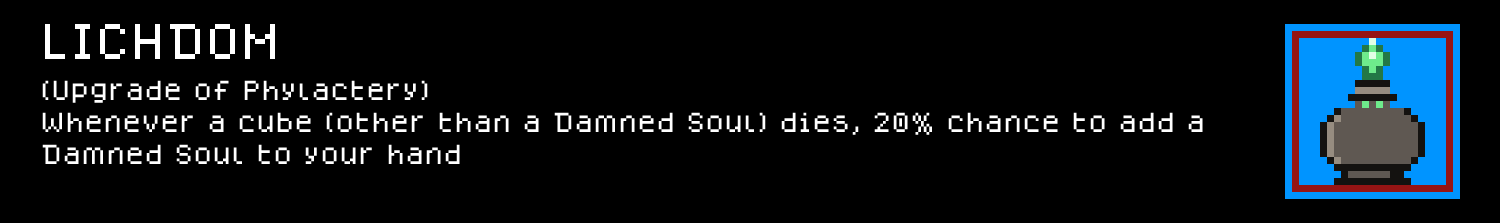
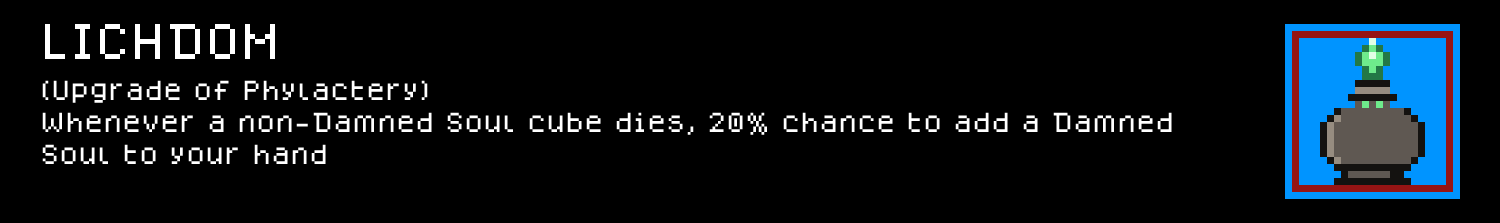
also small fixes

Changed region(s): [[0.1533, 0.4843, 0.828, 0.5919], [0.0307, 0.6457, 0.3067, 0.7534]]

diff --git a/.claude/skills/cube-chaos-rule-text/SKILL.md b/.claude/skills/cube-chaos-rule-text/SKILL.md
@@ -101,9 +101,13 @@ Pick the header color from the base game's existing vocabulary rather than inven
 - **Never put a period before the closing `End`.** Checked ~3070 real `Text:`/`Description:` lines: only 1 has a period before `End`. End the sentence and put `End` directly after — e.g. `Text: Heals the cube in front for 2 hp End`.
 - **Always capitalize the first letter.** 2965/2968 real lines do (the handful of exceptions are noise, not a real pattern).
 
-## Phrasing an `IsALeader`/`Not IsALeader` filter: "non-leader", never a parenthetical
+## Phrasing a "not X" filter: "non-X", never a parenthetical
 
-When a condition filters on `Not IsALeader Victim`/`Not IsALeader Culprit`/`Not IsALeader Target` etc., phrase it as **"a non-leader ally"** (or "non-leader enemy"/"non-leader cube", matching whatever noun the sentence needs) — fold the exclusion into the noun phrase, don't bolt it on as a parenthetical. Confirmed the established convention across both mods that use this filter: General's `General_Perks.c.txt`/`General_UpgradePerks.c.txt` ("a non leader ally", "a non leader ally deals damage") and DJ's `DJ_Cubes.c.txt`/`DJ_Synergies.c.txt`/`DJ_UpgradePerks.c.txt` ("non-leader cubes", "non-leader allies", "non leader enemies") all use this noun-phrase form — none use a parenthetical. Unholy's `Blood_Totem` originally read "Before an ally (not your leader) collides with this..." and was corrected to "Before a non-leader ally collides with this..." (2026-07-25, user-flagged) to match. Hyphenate ("non-leader") by default — DJ's cube/synergy text hyphenates while its two older upgrade-perk lines don't, so hyphenated is the slightly more common and more standard-English form; either reads fine in-game, but don't introduce a third phrasing (a parenthetical, "excluding the leader", etc.).
+When a condition excludes one specific thing — `Not IsALeader Victim/Culprit/Target`, or `Not CubeHasName Victim <SomeCube>` — phrase it as **"a non-X ally/cube/enemy"**, folding the exclusion into the noun phrase, never as a bolted-on parenthetical like "(not your leader)" or "(other than a Damned Soul)". Confirmed twice independently, same fix both times (2026-07-25, both user-flagged):
+- **`Not IsALeader`**: General's `General_Perks.c.txt`/`General_UpgradePerks.c.txt` ("a non leader ally") and DJ's `DJ_Cubes.c.txt`/`DJ_Synergies.c.txt`/`DJ_UpgradePerks.c.txt` ("non-leader cubes", "non-leader allies") already used this noun-phrase form. Unholy's `Blood_Totem` read "Before an ally (not your leader) collides with this..." and was corrected to "Before a non-leader ally collides with this...".
+- **`Not CubeHasName Victim Damned_Soul`**: Unholy's `Phylactery` ("Whenever an allied cube (other than a Damned Soul) dies...") and its upgrade `Lichdom` ("Whenever a cube (other than a Damned Soul) dies...") were both corrected to "a non-Damned Soul ally"/"a non-Damned Soul cube" respectively — keep the excluded cube's display name spaced as normal ("Damned Soul", not the DSL's underscored `Damned_Soul`) since the rest of the sentence already refers to it that way ("...add a Damned Soul to your hand").
+
+Hyphenate ("non-leader", "non-Damned Soul") by default — DJ's cube/synergy text hyphenates while its two older upgrade-perk lines don't, so hyphenated is the slightly more common and more standard-English form; either reads fine in-game, but don't introduce a third phrasing (a parenthetical, "excluding the leader", "that isn't a Damned Soul", etc.). This generalizes to any future single-exclusion filter, not just these two cases — check here first before reaching for a parenthetical.
 
 ## Never mention purely cosmetic effects
 
